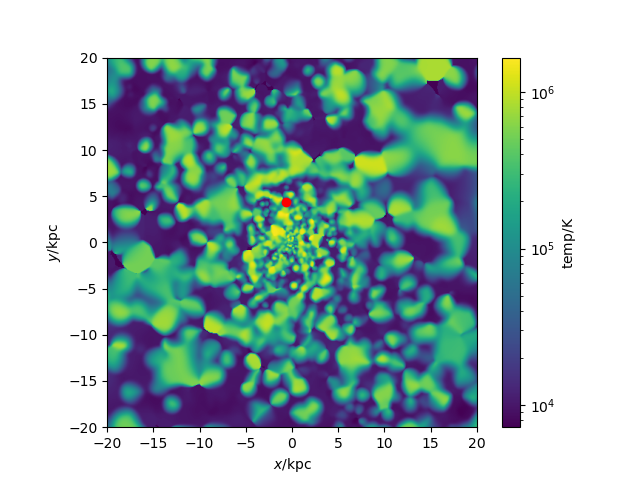
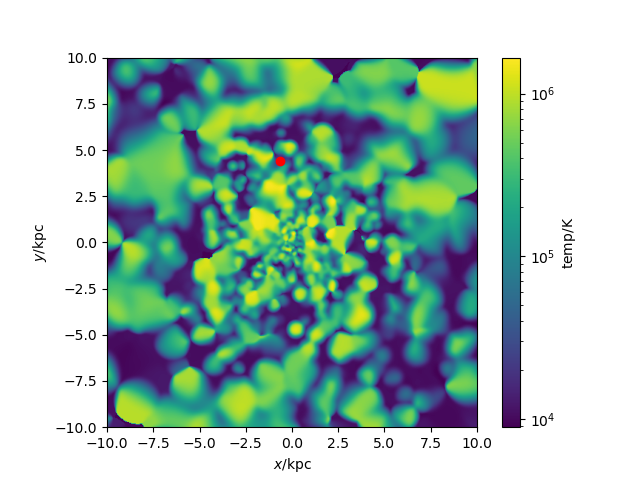
axis updated

diff --git a/r142/galaxy142_iongas.py b/r142/galaxy142_iongas.py
@@ -13,13 +13,14 @@ s=pynbody.load('/mnt/data0/jillian/gguaman/r142/cosmo25p.768sg1bwK1BHe75.007779'
 s.physical_units()
 
 #centering halo
-pynbody.analysis.angmom.faceon(s)
+#pynbody.analysis.angmom.faceon(s)
+pynbody.analysis.angmom.sideon(s)
 
 #filter to only use ionised gas
 GasFilter = pynbody.filt.HighPass('temp','15848 K')
 
 #creating image to show velocity of ionised gas
-sph.image(s.g[GasFilter],qty="vr",vmin=-20,width=40,denoise=True,approximate_fast=False,log=False)
+sph.image(s.g[GasFilter],qty="vr",vmin=-20,width=20,denoise=True,approximate_fast=False,log=False)
 
 #function to find BH
 def findBH(s):
@@ -52,4 +53,5 @@ BHz=BHposition[[0],2]
 plt.plot(BHx,BHy, 'ro')
 
 #plt.show()
-plt.savefig("galaxy142_iongas.png")
+#plt.savefig("galaxy142_iongas.png")
+plt.savefig("galaxy142_iongas(side).png")

diff --git a/r142/galaxy142_velocity.py b/r142/galaxy142_velocity.py
@@ -12,10 +12,11 @@ s=pynbody.load('/mnt/data0/jillian/gguaman/r142/cosmo25p.768sg1bwK1BHe75.007779'
 s.physical_units()
 
 #centering halo
-pynbody.analysis.angmom.faceon(s)
+#pynbody.analysis.angmom.faceon(s)
+pynbody.analysis.angmom.sideon(s)
 
 #creating gas velocity plot
-sph.image(s.g,qty="vr",width=40,denoise=True,approximate_fast=False,log=False)
+sph.image(s.g,qty="vr",width=20,denoise=True,approximate_fast=False,log=False)
 
 #function to find BH
 def findBH(s):
@@ -48,4 +49,5 @@ BHz=BHposition[[0],2]
 plt.plot(BHx,BHy, 'ro')
 
 #plt.show()
-plt.savefig("galaxy142_velocity.png")
+#plt.savefig("galaxy142_velocity.png")
+plt.savefig("galaxy142_velocity(side).png")

diff --git a/r142/galaxy142_temp.py b/r142/galaxy142_temp.py
@@ -12,10 +12,11 @@ s=pynbody.load('/mnt/data0/jillian/gguaman/r142/cosmo25p.768sg1bwK1BHe75.007779'
 s.physical_units()
 
 #centering halo
-pynbody.analysis.angmom.faceon(s)
+#pynbody.analysis.angmom.faceon(s)
+pynbody.analysis.angmom.sideon(s)
 
 #creating slice to show gas temp
-sph.image(s.g,qty="temp",width=40,denoise=True,approximate_fast=False,log=True)
+sph.image(s.g,qty="temp",width=20,denoise=True,approximate_fast=False,log=True)
 
 #function to find BH
 def findBH(s):
@@ -48,4 +49,5 @@ BHz=BHposition[[0],2]
 plt.plot(BHx,BHy, 'ro')
 
 #plt.show()
-plt.savefig("galaxy142_temp.png")
+#plt.savefig("galaxy142_temp.png")
+plt.savefig("galaxy142_temp(side).png")

diff --git a/r142/galaxy142_dens.py b/r142/galaxy142_dens.py
@@ -10,10 +10,11 @@ s=pynbody.load('/mnt/data0/jillian/gguaman/r142/cosmo25p.768sg1bwK1BHe75.007779'
 s.physical_units()
 
 #centering halo and aligning disk
-pynbody.analysis.angmom.faceon(s)
+#pynbody.analysis.angmom.faceon(s)
+pynbody.analysis.angmom.sideon(s)
 
 #creating gas density slice
-sph.image(s.g,qty="rho",units="g cm^-3",width=40)
+sph.image(s.g,qty="rho",units="g cm^-3",width=20)
 
 #function to find BH
 def findBH(s):
@@ -47,3 +48,4 @@ plt.plot(BHx,BHy, 'ro')
 
 #plt.show()
 plt.savefig("galaxy142_dens.png")
+plt.savefig("galaxy142_dens(side).png")

diff --git a/r142/galaxy142_stars.py b/r142/galaxy142_stars.py
@@ -10,10 +10,12 @@ s=pynbody.load('/mnt/data0/jillian/gguaman/r142/cosmo25p.768sg1bwK1BHe75.007779'
 s.physical_units()
 
 #centering halo
-pynbody.analysis.angmom.faceon(s)
+#pynbody.analysis.angmom.faceon(s)
+pynbody.analysis.angmom.sideon(s)
 
 #creating image using default bands(i,v,u)
-pynbody.plot.stars.render(s,width='12 kpc')
+pynbody.plot.stars.render(s,width='20 kpc')
 
 #plt.show()
-plt.savefig("galaxy142_stars.png")
+#plt.savefig("galaxy142_stars.png")
+plt.savefig("galaxy142_stars(side).png")
